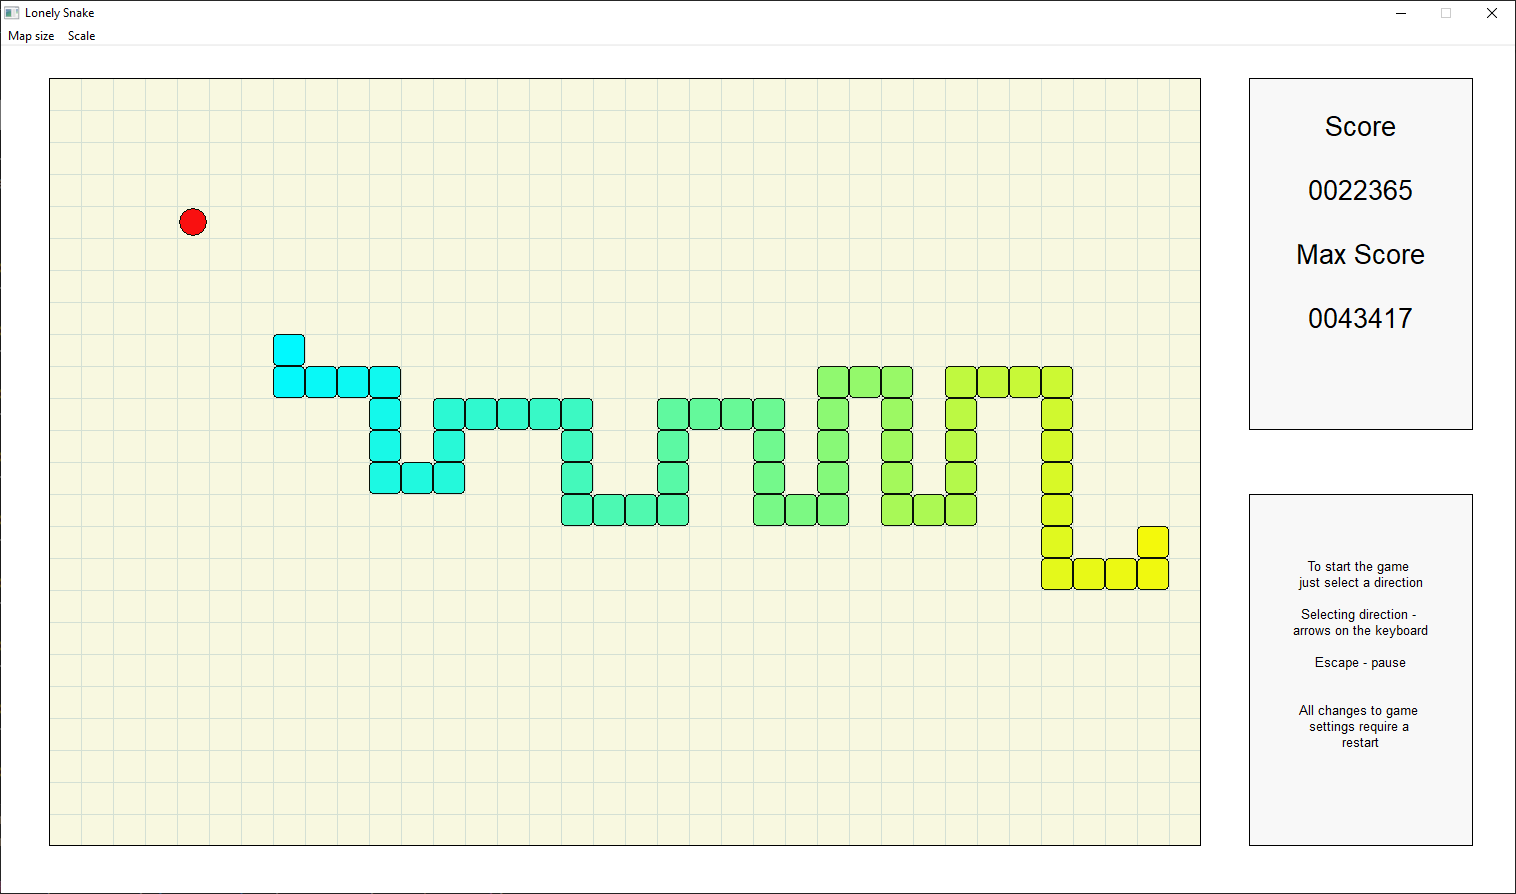
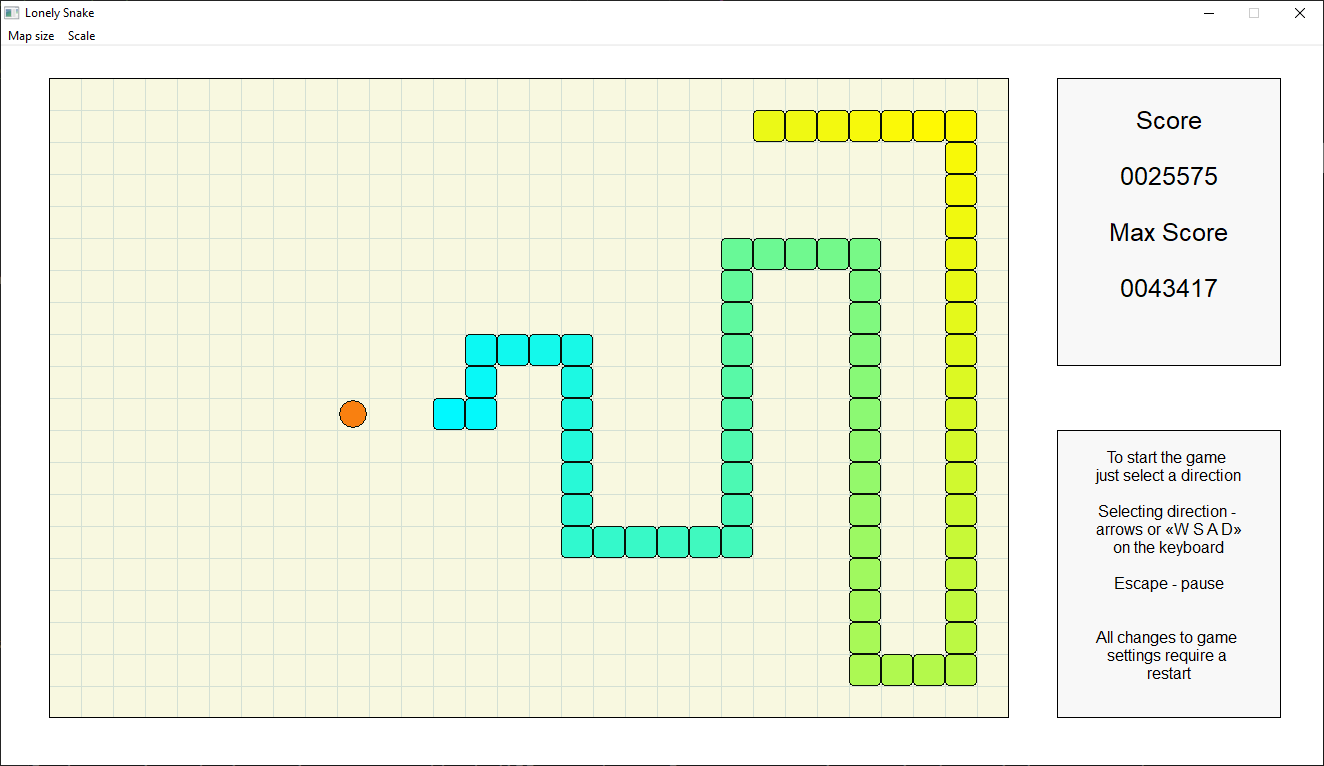
Add files via upload
Interface optimization

diff --git a/main.c b/main.c
@@ -25,13 +25,13 @@ int WINAPI wWinMain(HINSTANCE hInstance, HINSTANCE hPrevInstance, PWSTR pCmdLine
      int winScale = gamesettings.gamescale;            // Scale
      anaconda.maxscore = gamesettings.gamemaxscore;    // User's game record
      RECT ScoreTable;                                  // Size of score table
-     SetRect(&ScoreTable, 0, 0, 7 * winScale, 11 * winScale);  // Size of scoretable's window
+     SetRect(&ScoreTable, 0, 0, 7 * winScale, (map.x/3 - 1) * winScale);  // Size of scoretable's window
      
      WNDCLASSW wcl;
          memset(&wcl, 0, sizeof(WNDCLASSW));
          wcl.lpszClassName = L"mainwin";
          wcl.hbrBackground = (HBRUSH)GetStockObject(WHITE_BRUSH);
-         //wcl.style = CS_GLOBALCLASS | CS_VREDRAW | CS_HREDRAW;
+         wcl.style = CS_GLOBALCLASS | CS_VREDRAW | CS_HREDRAW;
          wcl.lpfnWndProc = WndProc;
      
      RegisterClassW(&wcl);
@@ -48,13 +48,13 @@ int WINAPI wWinMain(HINSTANCE hInstance, HINSTANCE hPrevInstance, PWSTR pCmdLine
                                   ScoreTable.right, ScoreTable.bottom, hwnd, NULL, NULL, NULL);
      
      // Font for scoreboard
-     HFONT hFont = CreateFontW(winScale, 0, 0, 0, FW_DONTCARE, FALSE, FALSE, FALSE, DEFAULT_CHARSET, 
+     HFONT hFont = CreateFontW((map.y * winScale) / 22, 0, 0, 0, 400, FALSE, FALSE, FALSE, DEFAULT_CHARSET, 
                    OUT_TT_PRECIS, CLIP_DEFAULT_PRECIS, PROOF_QUALITY, DEFAULT_PITCH | FF_SWISS, FALSE);
 
      HWND solutions = CreateWindowW(L"Message", NULL, SS_CENTER | WS_VISIBLE | WS_CHILD , (map.x+3)*winScale, ScoreTable.bottom + 3 * winScale,
                                   ScoreTable.right, ScoreTable.bottom, hwnd, NULL, NULL, NULL);
      
-     HFONT hFont2 = CreateFontW(winScale/2, 0, 0, 0, FW_DONTCARE, FALSE, FALSE, FALSE, DEFAULT_CHARSET, 
+     HFONT hFont2 = CreateFontW((map.y * winScale) / 35, 0, 0, 0, 400, FALSE, FALSE, FALSE, DEFAULT_CHARSET, 
                     OUT_TT_PRECIS, CLIP_DEFAULT_PRECIS, PROOF_QUALITY, DEFAULT_PITCH | FF_SWISS, FALSE);
      
 
@@ -100,7 +100,7 @@ int WINAPI wWinMain(HINSTANCE hInstance, HINSTANCE hPrevInstance, PWSTR pCmdLine
                    SnakeRestart(&map, &GameTicks, &anaconda);
                    WriteSavegame(map, winScale, anaconda.maxscore);
                    break;
-                   //RedrawWindow(hwnd, NULL, NULL, RDW_ALLCHILDREN); not working yet
+
               }
               DispatchMessageW(&msg);
           }

diff --git a/winproc.c b/winproc.c
@@ -81,7 +81,7 @@ void ScoresShow(HDC dc, int scale, int coins, int maxscore, HFONT font, RECT * c
 void SolutionShow(HDC dc, int scale, HFONT font, RECT * const rt)
 {
      wchar_t solution[256];
-     _swprintf(solution, L"\n\n\n\nTo start the game \njust select a direction\n\nSelecting direction - \narrows on the keyboard\n\nEscape - pause\n\n\nAll changes to game \nsettings require a \nrestart\n", *rt);
+     _swprintf(solution, L"\nTo start the game \njust select a direction\n\nSelecting direction - \narrows or «W S A D»\non the keyboard\n\nEscape - pause\n\n\nAll changes to game \nsettings require a \nrestart\n", *rt);
      
      HDC memDC = CreateCompatibleDC(dc);
      HBITMAP memBM = CreateCompatibleBitmap(dc, rt->right, rt->bottom);
@@ -104,7 +104,7 @@ void DispatchVector(WPARAM key, cpoint * newvect, DWORD * next_tick)
 {
      switch (key)
      {
-     case 0x25:               // Key LEFT
+     case 0x41:               // Key LEFT
           newvect->x = -1;
           newvect->y = 0;
           break;
@@ -120,6 +120,26 @@ void DispatchVector(WPARAM key, cpoint * newvect, DWORD * next_tick)
           break;
      
      case 0x28:               // Key DOWN
+          newvect->x = 0;
+          newvect->y = 1;
+          break;
+
+     case 0x25:               // Key LEFT
+          newvect->x = -1;
+          newvect->y = 0;
+          break;
+     
+     case 0x44:               // Key RIGHT
+          newvect->x = 1;
+          newvect->y = 0;
+          break;
+     
+     case 0x57:               // Key UP
+          newvect->x = 0;
+          newvect->y = -1;
+          break;
+     
+     case 0x53:               // Key DOWN
           newvect->x = 0;
           newvect->y = 1;
           break;
